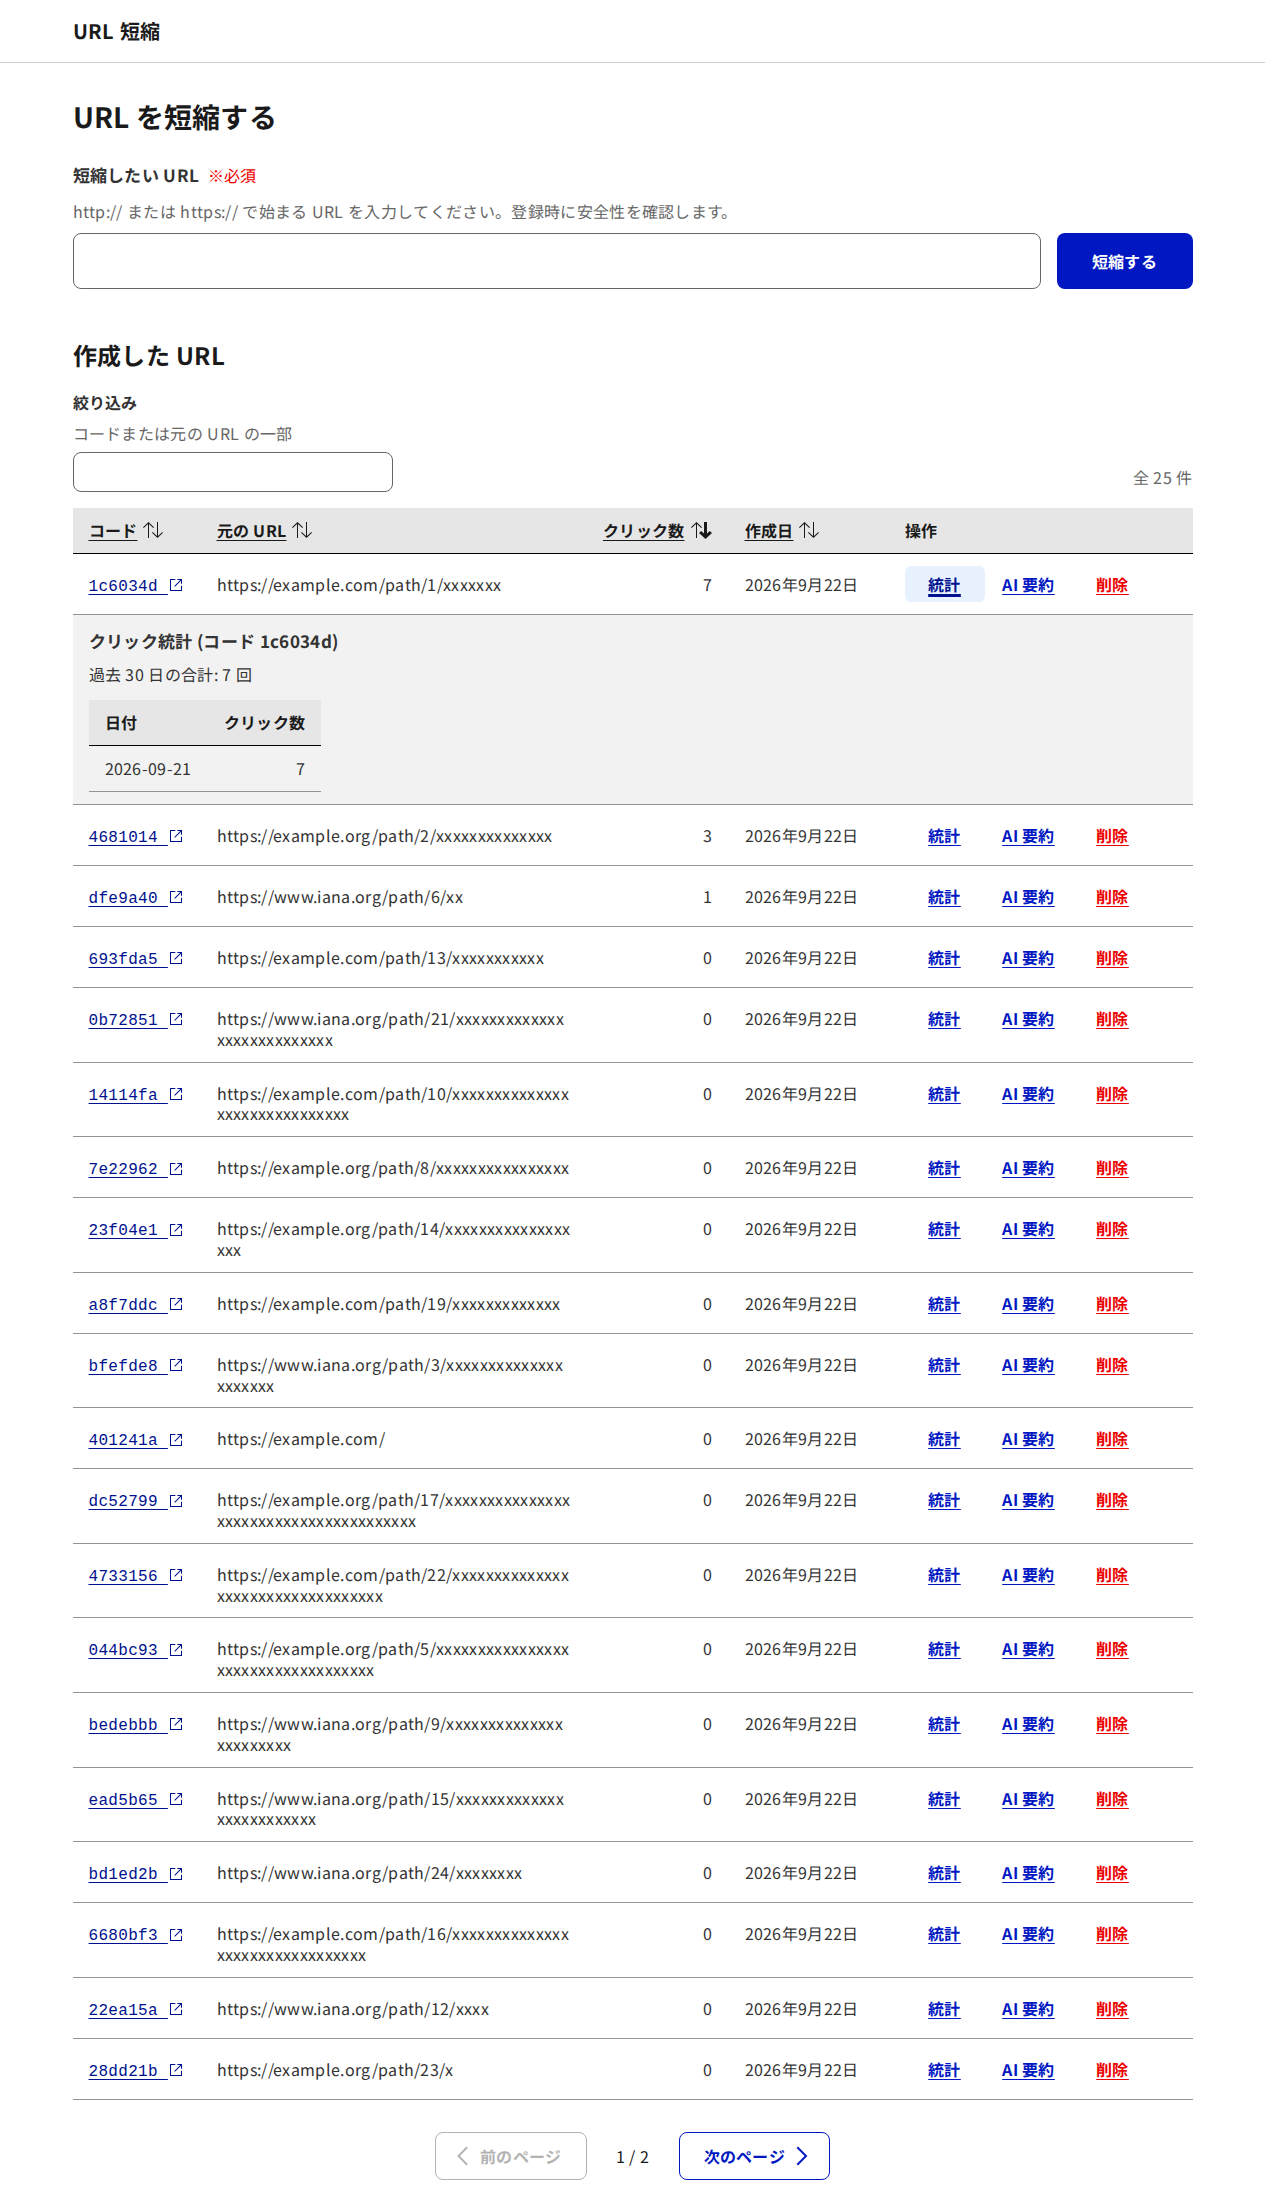
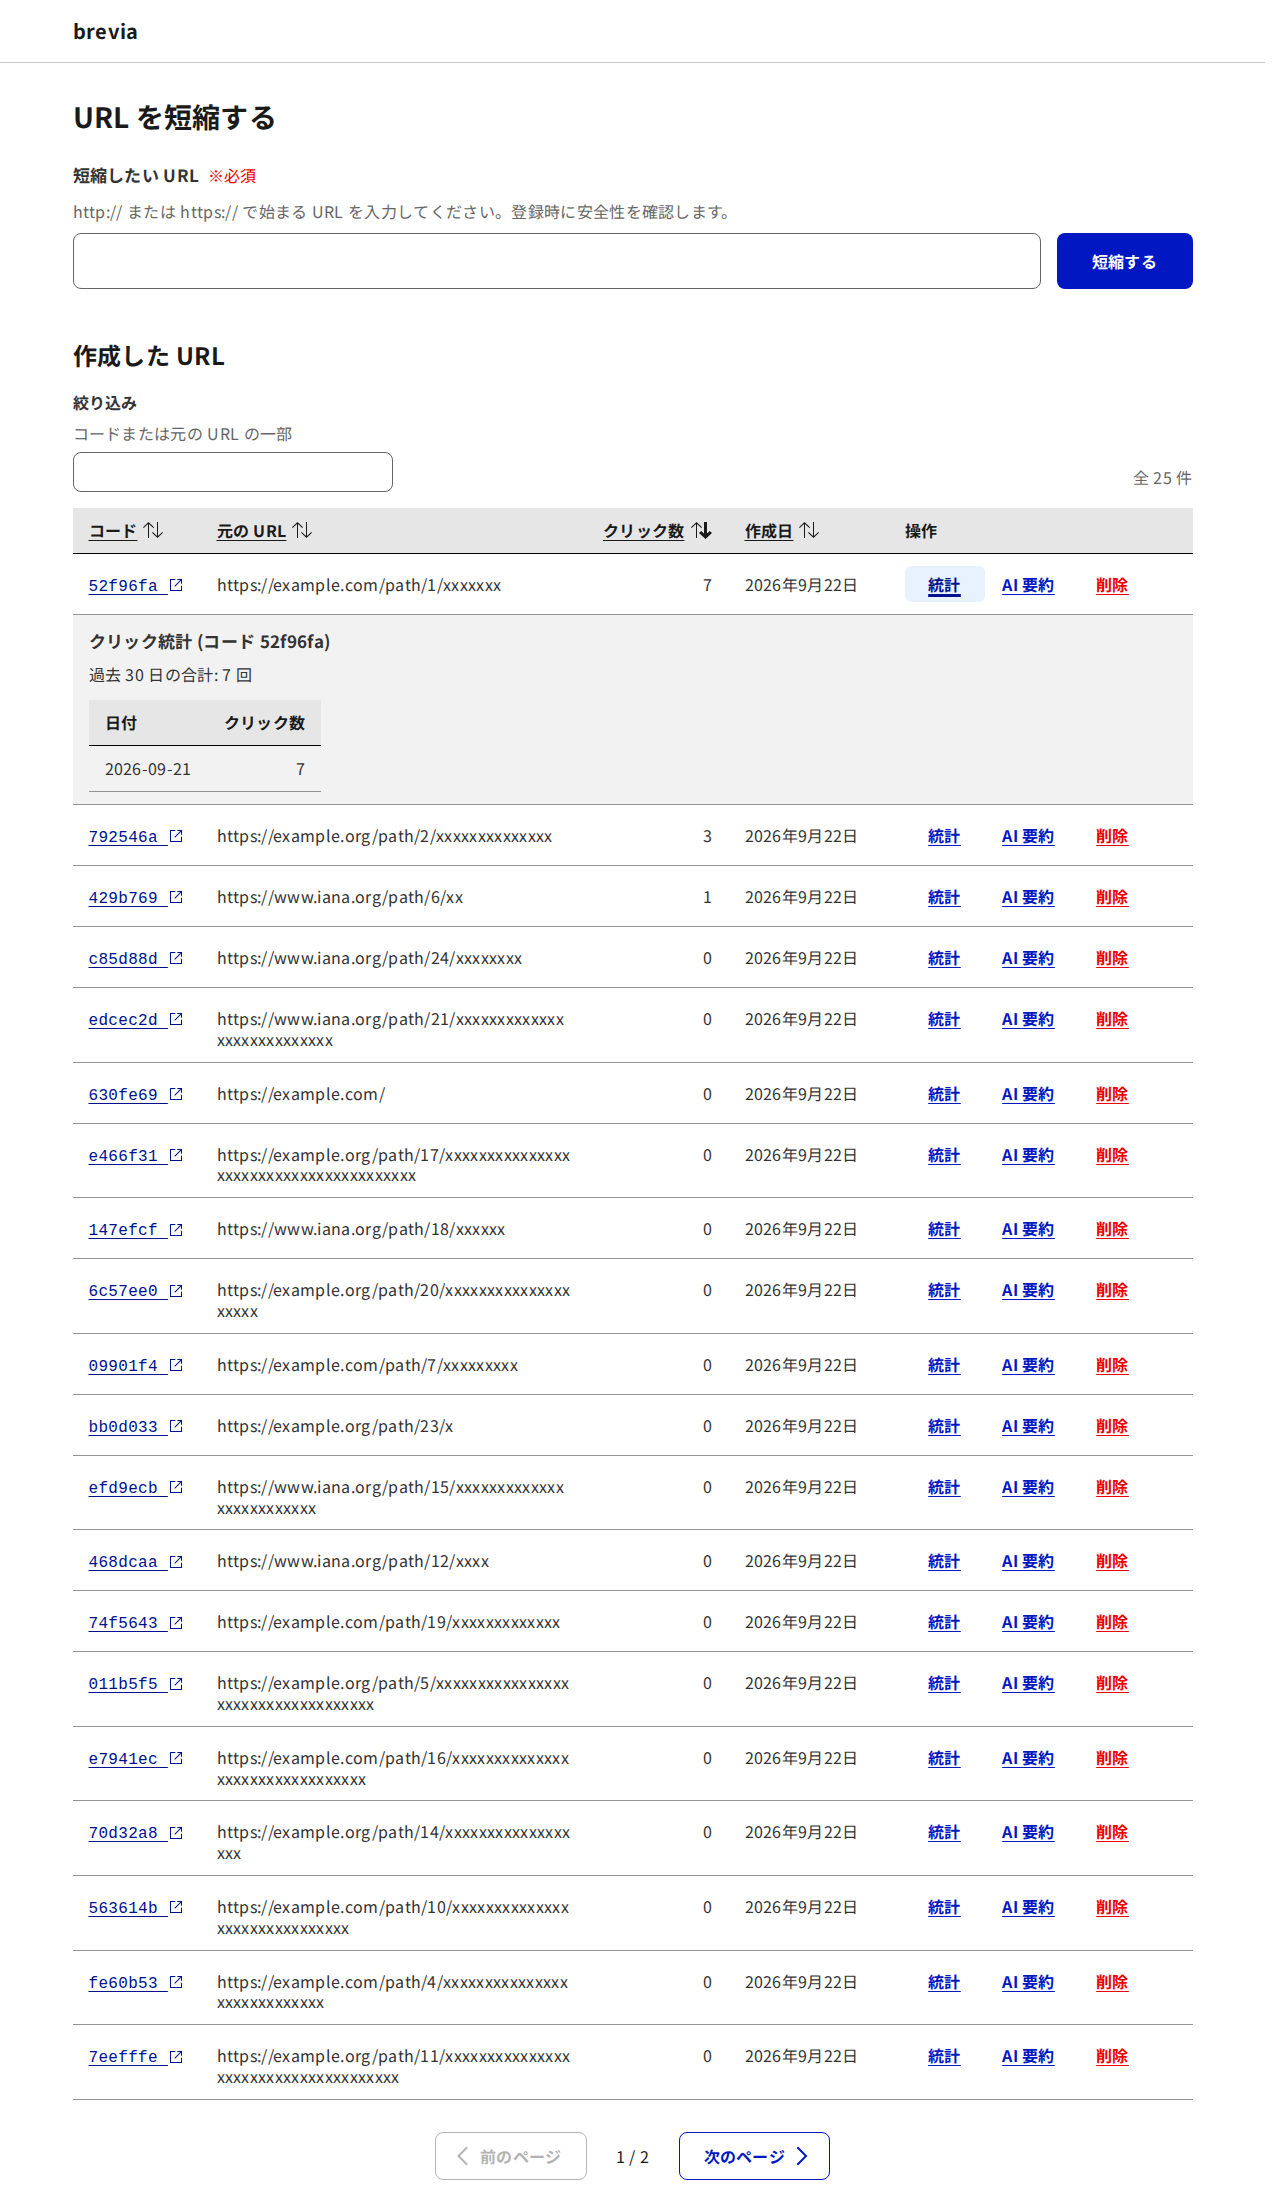
web: 画面の見出しを brevia にする
ラテン語 breviāre (短くする) の命令形。ヘッダーの見出しと title を置き換え、
画面キャプチャを撮り直す。

diff --git a/web/src/routes/+layout.svelte b/web/src/routes/+layout.svelte
@@ -5,13 +5,13 @@
 </script>
 
 <svelte:head>
-	<title>URL 短縮</title>
+	<title>brevia</title>
 </svelte:head>
 
 <div class="min-h-screen">
 	<header class="site-header">
 		<div class="mx-auto max-w-6xl px-4">
-			<a href="/" class="site-title dads-u-std-20B-150">URL 短縮</a>
+			<a href="/" class="site-title dads-u-std-20B-150">brevia</a>
 		</div>
 	</header>
 	<main class="mx-auto max-w-6xl px-4 py-8">
